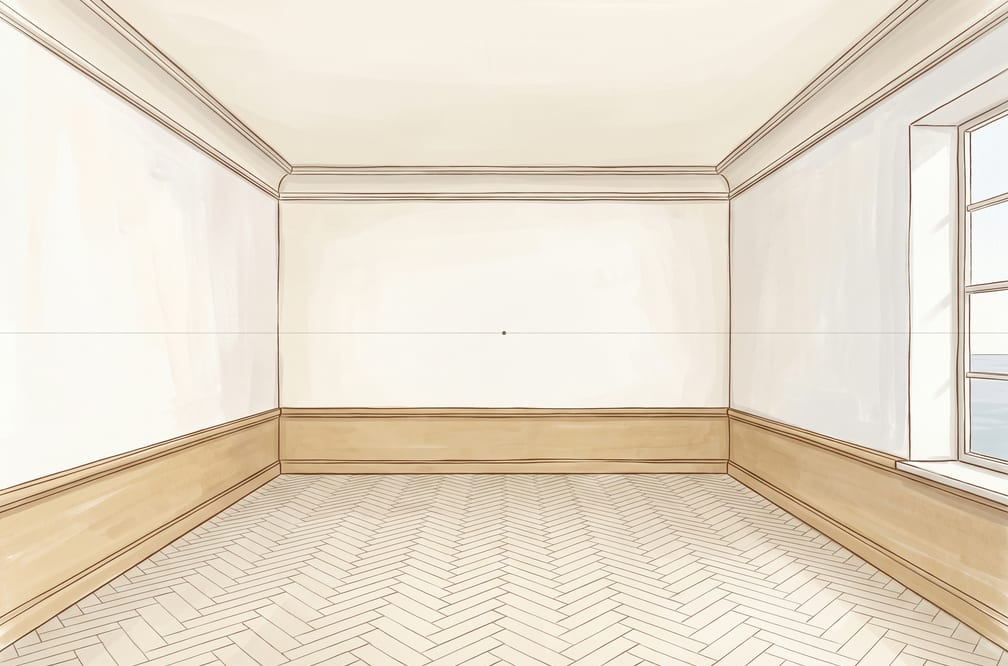
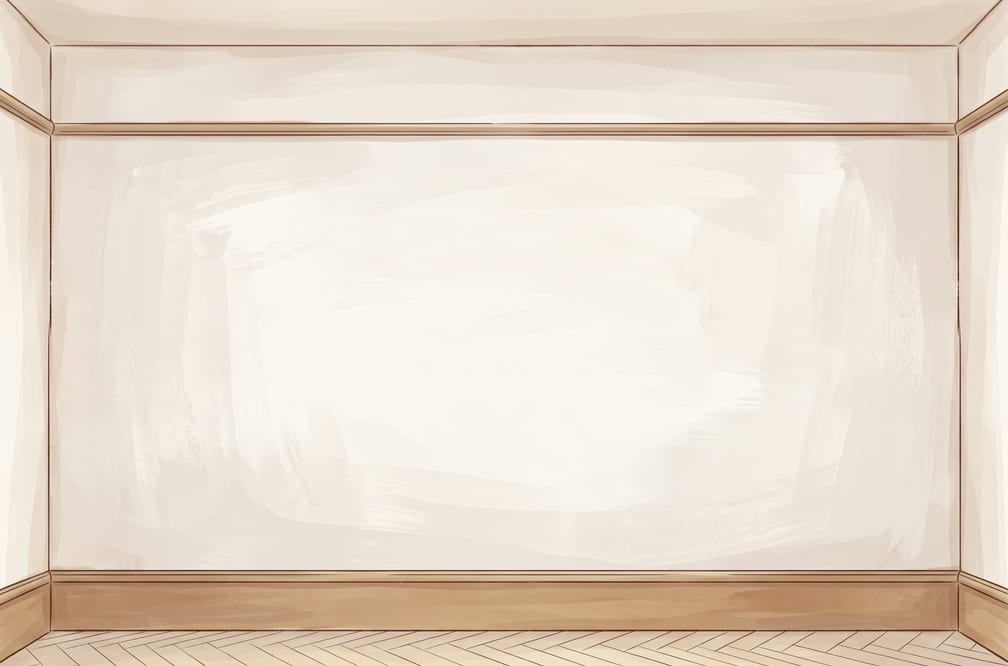
Home: the table goes, and both corners get a ladder
The table stood in the middle of a one-point room, which is the line between
the camera and the back wall, so the better it got the more of the fireplace it
hid. The hearth is the most expensive ladder in the house and the thing every
shell is painted around. A slot whose top rungs cover it is a slot fighting the
room, so it is gone and a second corner has taken its place.

Corners cannot have that problem. They are at the edges by definition, they
frame the fire instead of blocking it, and two of them give a straight-on room
the only symmetry it can offer. The left corner gets its own four pieces - a sea
chest, a rod rack, a captain's standing glass, and an anchor off something much
older that is only out in the Abyss.

THE SALVAGE MANIFEST NOW BALANCES. Five caches, five slots, one unbuyable piece
each. Dropping the table left ancient_deep-3 granting a starglass table that no
longer existed, and the window removal had already orphaned abyss-1's seaglass -
`npm run check` walks both tables and caught both.

THE GALLERY AND THE TROPHY ROOM ARE WALLS NOW. Both are rooms you stand in
front of a wall in rather than rooms you walk down: everything in them hangs.
They were painted to the same deep one-point grid as the house, which spent most
of the frame on floor and side walls that hold nothing. Repainted as near-flat
elevations - the back wall filling the frame, a hand's width of floor, the side
[…]

diff --git a/web/lib/homestead.ts b/web/lib/homestead.ts
@@ -167,7 +167,21 @@ export const HOUSE_SLOTS = [1, 2, 3, 4, 5] as const
  * and a bigger house simply has a better one. Nothing to buy, nothing to place,
  * and no way for it to be wrong.
  */
-export type FurnitureSlot = 'hearth' | 'floor' | 'mount' | 'table' | 'corner'
+/**
+ * ── THE TABLE WENT AND A SECOND CORNER TOOK ITS PLACE ───────────────────────
+ *
+ * A table stands in the MIDDLE of a room, which on a one-point-perspective shell
+ * means directly between the camera and the back wall — so the better the table
+ * got, the more of the fireplace it hid. The hearth is the most expensive ladder
+ * in the room and the one thing every shell is built around; a slot whose upper
+ * rungs obscure it is a slot fighting the room.
+ *
+ * Corners do not have that problem. They are at the edges by definition, they
+ * frame the fire rather than blocking it, and two of them give the room a left
+ * and a right to balance — which is also the only symmetry a straight-on room
+ * can offer.
+ */
+export type FurnitureSlot = 'hearth' | 'floor' | 'mount' | 'cornerL' | 'cornerR'
 
 export type Furnishing = {
   id: string
@@ -228,18 +242,19 @@ export const FURNITURE: { slot: FurnitureSlot; label: string; options: Furnishin
     ],
   },
   {
-    slot: 'table', label: 'The table',
+    slot: 'cornerL', label: 'The left corner',
     options: [
-      { id: 'table-plank', name: 'Plank and trestle', cost: 0 , art: '/sea/table-plank.png' },
-      { id: 'table-chart', name: 'Chart table', cost: 18_000 , art: '/sea/table-chart.png' },
-      { id: 'table-captain', name: "Captain's desk", cost: 80_000 , art: '/sea/table-captain.png' },
-      { id: 'table-starglass', name: 'A star-glass table', cost: 0 , art: '/sea/table-starglass.png', found: { isle: 'ancient_deep-3' } },
+      { id: 'cornerl-none', name: 'Empty', cost: 0 , art: null },
+      { id: 'cornerl-chest', name: 'A sea chest', cost: 9_000 , art: '/sea/cornerl-chest.png' },
+      { id: 'cornerl-rods', name: 'A rod rack', cost: 70_000 , art: '/sea/cornerl-rods.png' },
+      { id: 'cornerl-glass', name: 'A standing glass', cost: 300_000 , art: '/sea/cornerl-glass.png' },
+      { id: 'cornerl-anchor', name: 'An anchor off something older', cost: 0 , art: '/sea/cornerl-anchor.png', found: { isle: 'abyss-1' } },
     ],
   },
   {
-    slot: 'corner', label: 'The corner',
+    slot: 'cornerR', label: 'The right corner',
     options: [
-      { id: 'corner-none', name: 'Empty', cost: 0 , art: null },
+      { id: 'cornerr-none', name: 'Empty', cost: 0 , art: null },
       { id: 'corner-net', name: 'Nets and floats', cost: 8_000 , art: '/sea/corner-net.png' },
       { id: 'corner-figure', name: "A ship's figurehead", cost: 75_000 , art: '/sea/corner-figure.png' },
       { id: 'corner-lamp', name: 'A drowned lamp, still lit', cost: 320_000 , art: '/sea/corner-lamp.png' },
@@ -293,10 +308,14 @@ export type SlotSpot = { x: number; y: number; w: number }
  * THE GRID IS THE POINT. All eight were painted to one vanishing point with the
  * back wall parallel to the picture plane, so the same broad positions work in
  * every room: the fire sits left of centre on the back wall, the mount hangs
- * above it, the table stands right of centre on the floor, the corner piece goes
- * bottom right. Per-room numbers still exist because the floor line and the
- * ceiling height differ, but they are variations on one layout rather than six
- * unrelated ones.
+ * above it, and a corner piece stands in each of the two bottom corners. Per-room
+ * numbers still exist because the floor line and the ceiling height differ, but
+ * they are variations on one layout rather than six unrelated ones.
+ *
+ * THE MIDDLE OF THE FLOOR IS DELIBERATELY EMPTY. On a one-point grid the centre
+ * of the room is the line between the camera and the back wall, which is where
+ * the hearth is — so anything standing there hides the most expensive thing in
+ * the room. That is what the table did and why it is gone.
  */
 export type RoomId = 'main' | 'gallery' | 'menagerie' | 'trophy'
 
@@ -335,19 +354,19 @@ export type RoomDef = {
 const MAIN_SPOTS: Record<FurnitureSlot, SlotSpot>[] = [
   // The lean-to: low roof, dirt floor high in the frame, everything small.
   { floor: { x: 50, y: 99, w: 46 }, hearth: { x: 33, y: 86, w: 20 },
-    mount: { x: 33, y: 62, w: 15 }, table: { x: 66, y: 88, w: 24 }, corner: { x: 90, y: 92, w: 15 } },
+    mount: { x: 33, y: 62, w: 15 }, cornerL: { x: 10, y: 88, w: 24 }, cornerR: { x: 90, y: 92, w: 15 } },
   // The cottage: taller walls, a proper board floor, window right.
   { floor: { x: 50, y: 99, w: 48 }, hearth: { x: 34, y: 84, w: 21 },
-    mount: { x: 34, y: 58, w: 16 }, table: { x: 66, y: 87, w: 25 }, corner: { x: 90, y: 91, w: 15 } },
+    mount: { x: 34, y: 58, w: 16 }, cornerL: { x: 10, y: 87, w: 25 }, cornerR: { x: 90, y: 91, w: 15 } },
   // The longhouse: wide and dark, more floor showing.
   { floor: { x: 50, y: 99, w: 52 }, hearth: { x: 33, y: 83, w: 22 },
-    mount: { x: 33, y: 56, w: 17 }, table: { x: 67, y: 87, w: 26 }, corner: { x: 91, y: 91, w: 16 } },
+    mount: { x: 33, y: 56, w: 17 }, cornerL: { x: 10, y: 87, w: 26 }, cornerR: { x: 91, y: 91, w: 16 } },
   // The great hall: high stone, the floor line drops away.
   { floor: { x: 50, y: 99, w: 54 }, hearth: { x: 33, y: 82, w: 23 },
-    mount: { x: 33, y: 53, w: 18 }, table: { x: 67, y: 86, w: 27 }, corner: { x: 91, y: 90, w: 16 } },
+    mount: { x: 33, y: 53, w: 18 }, cornerL: { x: 10, y: 86, w: 27 }, cornerR: { x: 91, y: 90, w: 16 } },
   // The estate: panelled, flagged, and the tallest of them.
   { floor: { x: 50, y: 99, w: 56 }, hearth: { x: 34, y: 81, w: 23 },
-    mount: { x: 34, y: 52, w: 18 }, table: { x: 67, y: 86, w: 27 }, corner: { x: 91, y: 90, w: 16 } },
+    mount: { x: 34, y: 52, w: 18 }, cornerL: { x: 10, y: 86, w: 27 }, cornerR: { x: 91, y: 90, w: 16 } },
 ]
 
 export const ROOMS: RoomDef[] = [
@@ -363,7 +382,7 @@ export const ROOMS: RoomDef[] = [
   {
     id: 'gallery', name: 'The gallery', blurb: 'Your badges, and every fish you have logged.',
     needsHouse: 2, art: '/sea/room-gallery.jpg',
-    content: { x: 50, y: 48, w: 72 },
+    content: { x: 50, y: 44, w: 84 },
   },
   {
     id: 'menagerie', name: 'The menagerie', blurb: 'Every pet you have ever taken in.',
@@ -373,7 +392,7 @@ export const ROOMS: RoomDef[] = [
   {
     id: 'trophy', name: 'The trophy room', blurb: 'The giants, and what they cost you.',
     needsHouse: 4, art: '/sea/room-trophy.jpg',
-    content: { x: 50, y: 44, w: 74 },
+    content: { x: 50, y: 40, w: 84 },
   },
 ]
 

diff --git a/web/app/(app)/home/calibrate/CalibrateRooms.tsx b/web/app/(app)/home/calibrate/CalibrateRooms.tsx
@@ -37,7 +37,7 @@ import {
 } from '@/lib/homestead'
 
 /** Back to front, the same order the room paints in. */
-const ORDER: FurnitureSlot[] = ['floor', 'hearth', 'mount', 'table', 'corner']
+const ORDER: FurnitureSlot[] = ['floor', 'cornerL', 'hearth', 'mount', 'cornerR']
 
 const HOUSE_NAMES = ['Lean-to', 'Cottage', 'Longhouse', 'Great hall', 'Estate']
 
@@ -113,6 +113,29 @@ export default function CalibrateRooms({ initial, contentInitial }: {
     setBox({ x: Math.max(0, Math.min(100, box.x + m[0])), y: Math.max(0, Math.min(100, box.y + m[1])) })
   }
 
+  /**
+   * ── SEEDING ONE FROM ANOTHER ────────────────────────────────────────────
+   *
+   * The five shells are one house growing and the four rooms share a vanishing
+   * point, so the numbers are always CLOSE and never equal: the estate's hearth
+   * is the cottage's hearth a few percent lower and a little wider. Placing each
+   * from scratch means finding the same answer five times and getting five
+   * slightly different ones, which reads as furniture that drifts about as you
+   * upgrade rather than a house that grew around it.
+   *
+   * So copy the neighbour and correct it. That is the difference between five
+   * placements and one placement plus four adjustments.
+   */
+  const copyFromShell = (from: number) => {
+    setRows(prev => prev.map((r, i) => i === tier ? { ...prev[from] } : r))
+  }
+
+  const copyFromRoom = (from: string) => {
+    const src = content[from]
+    if (!src) return
+    setContent(prev => ({ ...prev, [room.id]: { ...src } }))
+  }
+
   const nudge = (e: React.KeyboardEvent, s: FurnitureSlot) => {
     const step = e.shiftKey ? 5 : 1
     const d: Record<string, [number, number]> = {
@@ -137,8 +160,8 @@ export default function CalibrateRooms({ initial, contentInitial }: {
       + `  { floor: { x: ${pad(r.floor.x, 2)}, y: ${pad(r.floor.y, 2)}, w: ${pad(r.floor.w, 2)} },`
       + ` hearth: { x: ${pad(r.hearth.x, 2)}, y: ${pad(r.hearth.y, 2)}, w: ${pad(r.hearth.w, 2)} },\n`
       + `    mount: { x: ${pad(r.mount.x, 2)}, y: ${pad(r.mount.y, 2)}, w: ${pad(r.mount.w, 2)} },`
-      + ` table: { x: ${pad(r.table.x, 2)}, y: ${pad(r.table.y, 2)}, w: ${pad(r.table.w, 2)} },\n`
-      + `    corner: { x: ${pad(r.corner.x, 2)}, y: ${pad(r.corner.y, 2)}, w: ${pad(r.corner.w, 2)} } },`
+      + ` cornerL: { x: ${pad(r.cornerL.x, 2)}, y: ${pad(r.cornerL.y, 2)}, w: ${pad(r.cornerL.w, 2)} },\n`
+      + `    cornerR: { x: ${pad(r.cornerR.x, 2)}, y: ${pad(r.cornerR.y, 2)}, w: ${pad(r.cornerR.w, 2)} } },`
     ).join('\n')
     + '\n]\n\n'
     // AND THE THREE CONTENT BOXES, as the line to paste into each RoomDef.
@@ -202,6 +225,34 @@ export default function CalibrateRooms({ initial, contentInitial }: {
             }}>{n}</button>
         ))}
       </div>}
+
+      {/* ── COPY FROM ── the same three numbers, one shell or one room over.
+          Buttons rather than a dropdown: there are at most four of them, and a
+          menu for four things is a click you did not need. */}
+      <div style={{ display: 'flex', gap: 6, alignItems: 'center', flexWrap: 'wrap', marginBottom: 10 }}>
+        <span className="font-karla" style={{ fontSize: '0.72rem', color: 'rgba(190,212,228,0.45)' }}>
+          Copy from
+        </span>
+        {isMain
+          ? HOUSE_NAMES.map((n, i) => i === tier ? null : (
+            <button key={n} type="button" onClick={() => copyFromShell(i)}
+              className="font-karla font-700"
+              style={{
+                padding: '0.28rem 0.6rem', borderRadius: 999, fontSize: '0.72rem', cursor: 'pointer',
+                color: 'rgba(214,232,240,0.7)', background: 'rgba(255,255,255,0.04)',
+                border: '1px dashed rgba(255,255,255,0.2)',
+              }}>{n}</button>
+          ))
+          : ROOMS.filter(r => r.id !== 'main' && r.id !== room.id).map(r => (
+            <button key={r.id} type="button" onClick={() => copyFromRoom(r.id)}
+              className="font-karla font-700"
+              style={{
+                padding: '0.28rem 0.6rem', borderRadius: 999, fontSize: '0.72rem', cursor: 'pointer',
+                color: 'rgba(214,232,240,0.7)', background: 'rgba(255,255,255,0.04)',
+                border: '1px dashed rgba(255,255,255,0.2)',
+              }}>{r.name}</button>
+          ))}
+      </div>
 
       {/* ── THE ROOM ── */}
       <div data-room style={{

diff --git a/web/lib/seaIsles.ts b/web/lib/seaIsles.ts
@@ -142,20 +142,22 @@ const NOTES: Record<string, IsleNote> = {
 /**
  * WHAT EACH ISLE IS HOLDING, beyond coin.
  *
- * Six caches hold the only copy of a homestead furnishing (lib/homestead.ts,
- * `found`). Kept HERE rather than only on the furnishing so the isle table
- * reads as a complete manifest of what is out there, and so the ashore code has
- * one place to look.
+ * ONE PER SLOT. Five caches hold the only copy of a homestead furnishing
+ * (lib/homestead.ts, `found`), and there are exactly five furniture slots, so
+ * every slot in the house has one piece that is not for sale at any price.
+ * Kept HERE rather than only on the furnishing so the isle table reads as a
+ * complete manifest of what is out there, and so the ashore code has one place
+ * to look. `npm run check` walks both directions and fails on a disagreement —
+ * which is how the window and the table were caught when their slots went.
  *
- * All six sit in the Abyss or the Ancient Deep. The point is that the finest
+ * All five sit in the Abyss or the Ancient Deep. The point is that the finest
  * things in a captain's house are things they sailed a long way for.
  */
 export const ISLE_FURNISHING: Record<string, string> = {
-  'abyss-1': 'window-seaglass',
+  'abyss-1': 'cornerl-anchor',
   'abyss-2': 'floor-abyssal',
   'ancient_deep-0': 'hearth-firestone',
   'ancient_deep-2': 'mount-giant',
-  'ancient_deep-3': 'table-starglass',
   'ancient_deep-4': 'corner-orrery',
 }
 

diff --git a/web/app/(app)/home/RoomView.tsx b/web/app/(app)/home/RoomView.tsx
@@ -38,7 +38,7 @@ const GOLD = '#f0c040'
 
 /** Back to front. A hearth is against the wall, a table stands in front of it,
  *  and the corner piece is nearest the camera. */
-const ROOM_ORDER: FurnitureSlot[] = ['floor', 'hearth', 'mount', 'table', 'corner']
+const ROOM_ORDER: FurnitureSlot[] = ['floor', 'cornerL', 'hearth', 'mount', 'cornerR']
 
 export default function RoomView({ home, unlocked, pets, species, giants, guest }: {
   home: Homestead
